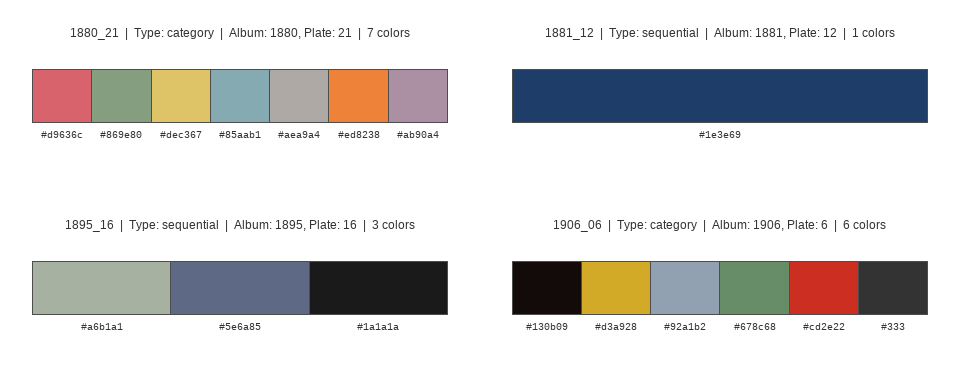
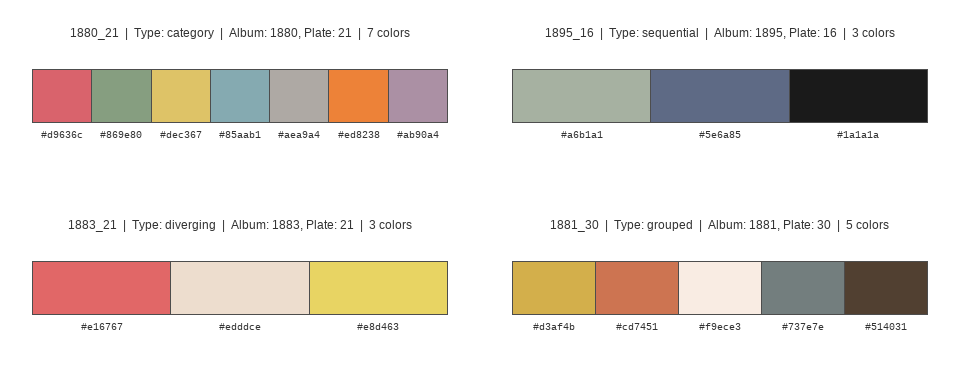
Replace one-color 1881_12 in palette-swatch examples
1881_12 is a monochrome sequential palette whose steps are hatching
densities, so show_palette() draws it as one undifferentiated block.
README and show_palette()/show_palettes() examples now use multi-color
palettes (the README grid shows one of each type), and the README notes
that one-color palettes carry their steps in the patterns.

diff --git a/README.md b/README.md
@@ -13,7 +13,7 @@ experimental](https://img.shields.io/badge/lifecycle-experimental-orange.svg)](h
 
 # ggCheysson <img src="man/figures/logo.png" height="200" style="float:right; height:200px;"/>
 
-Version 1.1.0; documentation built 2026-09-17
+Version 1.1.0; documentation built 2026-09-28
 
 The `ggCheysson` package brings the graphical styles of the *Albums de
 Statistique Graphique* to R and ggplot2.
@@ -324,17 +324,23 @@ show_palette("1895_16")
 
 ``` r
 # Display multiple palettes at once
-show_palettes(c("1880_21", "1881_12", "1895_16"))
+show_palettes(c("1880_21", "1906_06", "1881_30"))
 ```
 
 <img src="man/figures/README-show-palette-multi-1.png" alt="" width="100%" />
 
 ``` r
-# Display four palettes in a 2x2 grid
-show_palettes(c("1880_21", "1881_12", "1895_16", "1906_06"), ncol = 2)
+# One palette of each type in a 2x2 grid: category, sequential, diverging, grouped
+show_palettes(c("1880_21", "1895_16", "1883_21", "1881_30"), ncol = 2)
 ```
 
 <img src="man/figures/README-show-palette-grid-1.png" alt="" width="100%" />
+
+Some palettes, such as the sequential `1881_12`, have only one color:
+Cheysson made the steps with hatching of increasing density rather than
+with shades. Their swatches here show a single color; use
+`cheysson_pattern("1881_12")` to get the full palette (see Pattern
+Support, below).
 
 ``` r
 # Display all palettes of a specific type
